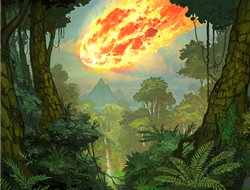
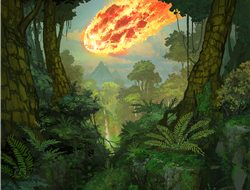
新增：陨石术（2费稀有攻击，升级后为星辰能量）
- 陨石术：对一个敌人造成15点伤害，再随机造成2次4点伤害（火焰）
- 星辰能量（升级）：随机对一个敌方造成5点伤害，重复此效果每次
  伤害减少1点（5、4、3、2、1，奥术派系）
- wiki.gg 原画 cover 250x190（Meteor/Star Power）；zhs/eng 本地化

diff --git a/Scripts/Character/Cards/MeteorCard.cs b/Scripts/Character/Cards/MeteorCard.cs
@@ -1,0 +1,120 @@
+using System.Collections.Generic;
+using System.Linq;
+using System.Threading.Tasks;
+using MegaCrit.Sts2.Core.Commands;
+using MegaCrit.Sts2.Core.Entities.Cards;
+using MegaCrit.Sts2.Core.Entities.Creatures;
+using MegaCrit.Sts2.Core.GameActions.Multiplayer;
+using MegaCrit.Sts2.Core.Localization;
+using MegaCrit.Sts2.Core.Localization.DynamicVars;
+using MegaCrit.Sts2.Core.ValueProps;
+using STS2RitsuLib.Interop.AutoRegistration;
+using STS2RitsuLib.Scaffolding.Content;
+
+namespace jaina.Scripts.Character.Cards;
+
+/// <summary>
+/// 陨石术 (Meteor) - 2费攻击牌（稀有，火焰派系）。
+/// 对一个敌人造成 15 点伤害，再随机造成 2 次 4 点伤害。
+/// 升级后变为"星辰能量 (Star Power)"：随机对一个敌方造成 5 点伤害。
+/// 重复此效果，每次伤害减少 1 点（5、4、3、2、1）。
+/// </summary>
+[RegisterCard(typeof(JainaCardPool))]
+public sealed class MeteorCard : JainaSpellCardTemplate
+{
+    /// <summary>
+    /// 法术牌 + 火焰派系（升级后为奥术派系）
+    /// </summary>
+    public override IEnumerable<CardKeyword> CanonicalKeywords =>
+        IsUpgraded
+            ? [jaina.Scripts.Character.Keywords.JainaKeywords.Spell, jaina.Scripts.Character.Keywords.JainaKeywords.Arcane]
+            : [jaina.Scripts.Character.Keywords.JainaKeywords.Spell, jaina.Scripts.Character.Keywords.JainaKeywords.Fire];
+
+    protected override IEnumerable<DynamicVar> CanonicalVars => [];
+
+    /// <summary>
+    /// 卡牌原画：陨石术 / 升级后（星辰能量）切换原画
+    /// </summary>
+    public override string CustomPortraitPath =>
+        IsUpgraded ? "res://assets/card_art/star_power.png" : "res://assets/card_art/meteor.png";
+
+    public MeteorCard()
+        : base(2, CardType.Attack, CardRarity.Rare, TargetType.AnyEnemy, true)
+    {
+    }
+
+    /// <summary>
+    /// 升级后卡牌名称变为"星辰能量 (Star Power)"
+    /// </summary>
+    public override string Title
+    {
+        get
+        {
+            var title = new LocString("cards", base.Id.Entry + ".title");
+            if (!IsUpgraded)
+            {
+                return title.GetFormattedText();
+            }
+            LocString? upgraded = LocString.GetIfExists("cards", base.Id.Entry + ".titleUpgraded");
+            return upgraded?.GetFormattedText() ?? title.GetFormattedText() + "+";
+        }
+    }
+
+    protected override async Task OnPlay(PlayerChoiceContext choiceContext, CardPlay cardPlay)
+    {
+        // 记录施放（倒带/罗曼斯/三派系追踪）
+        jaina.Scripts.Character.JainaCastTracker.RecordPlayed(this);
+
+        var combatState = base.Owner.Creature.CombatState;
+        if (combatState == null)
+        {
+            return;
+        }
+
+        if (IsUpgraded)
+        {
+            // 星辰能量：随机对一个敌方造成 5 点伤害，重复此效果每次伤害减少 1 点（5、4、3、2、1）
+            for (int damage = 5; damage >= 1; damage--)
+            {
+                var enemies = combatState.GetOpponentsOf(base.Owner.Creature)
+                    .Where(e => e != null && e.IsAlive && e.IsHittable)
+                    .ToList();
+                if (enemies.Count == 0)
+                {
+                    break;
+                }
+                var target = combatState.RunState.Rng.CombatTargets.NextItem(enemies);
+                if (target == null)
+                {
+                    break;
+                }
+                await CreatureCmd.Damage(choiceContext, [target], damage, ValueProp.Move, base.Owner.Creature, this, cardPlay);
+            }
+            return;
+        }
+
+        // 陨石术：对一个敌人造成 15 点伤害
+        if (cardPlay.Target is { IsAlive: true } mainTarget)
+        {
+            await CreatureCmd.Damage(choiceContext, [mainTarget], 15m, ValueProp.Move, base.Owner.Creature, this, cardPlay);
+        }
+
+        // 再随机造成 2 次 4 点伤害
+        for (int i = 0; i < 2; i++)
+        {
+            var enemies = combatState.GetOpponentsOf(base.Owner.Creature)
+                .Where(e => e != null && e.IsAlive && e.IsHittable)
+                .ToList();
+            if (enemies.Count == 0)
+            {
+                break;
+            }
+            var target = combatState.RunState.Rng.CombatTargets.NextItem(enemies);
+            if (target == null)
+            {
+                break;
+            }
+            await CreatureCmd.Damage(choiceContext, [target], 4m, ValueProp.Move, base.Owner.Creature, this, cardPlay);
+        }
+    }
+}
